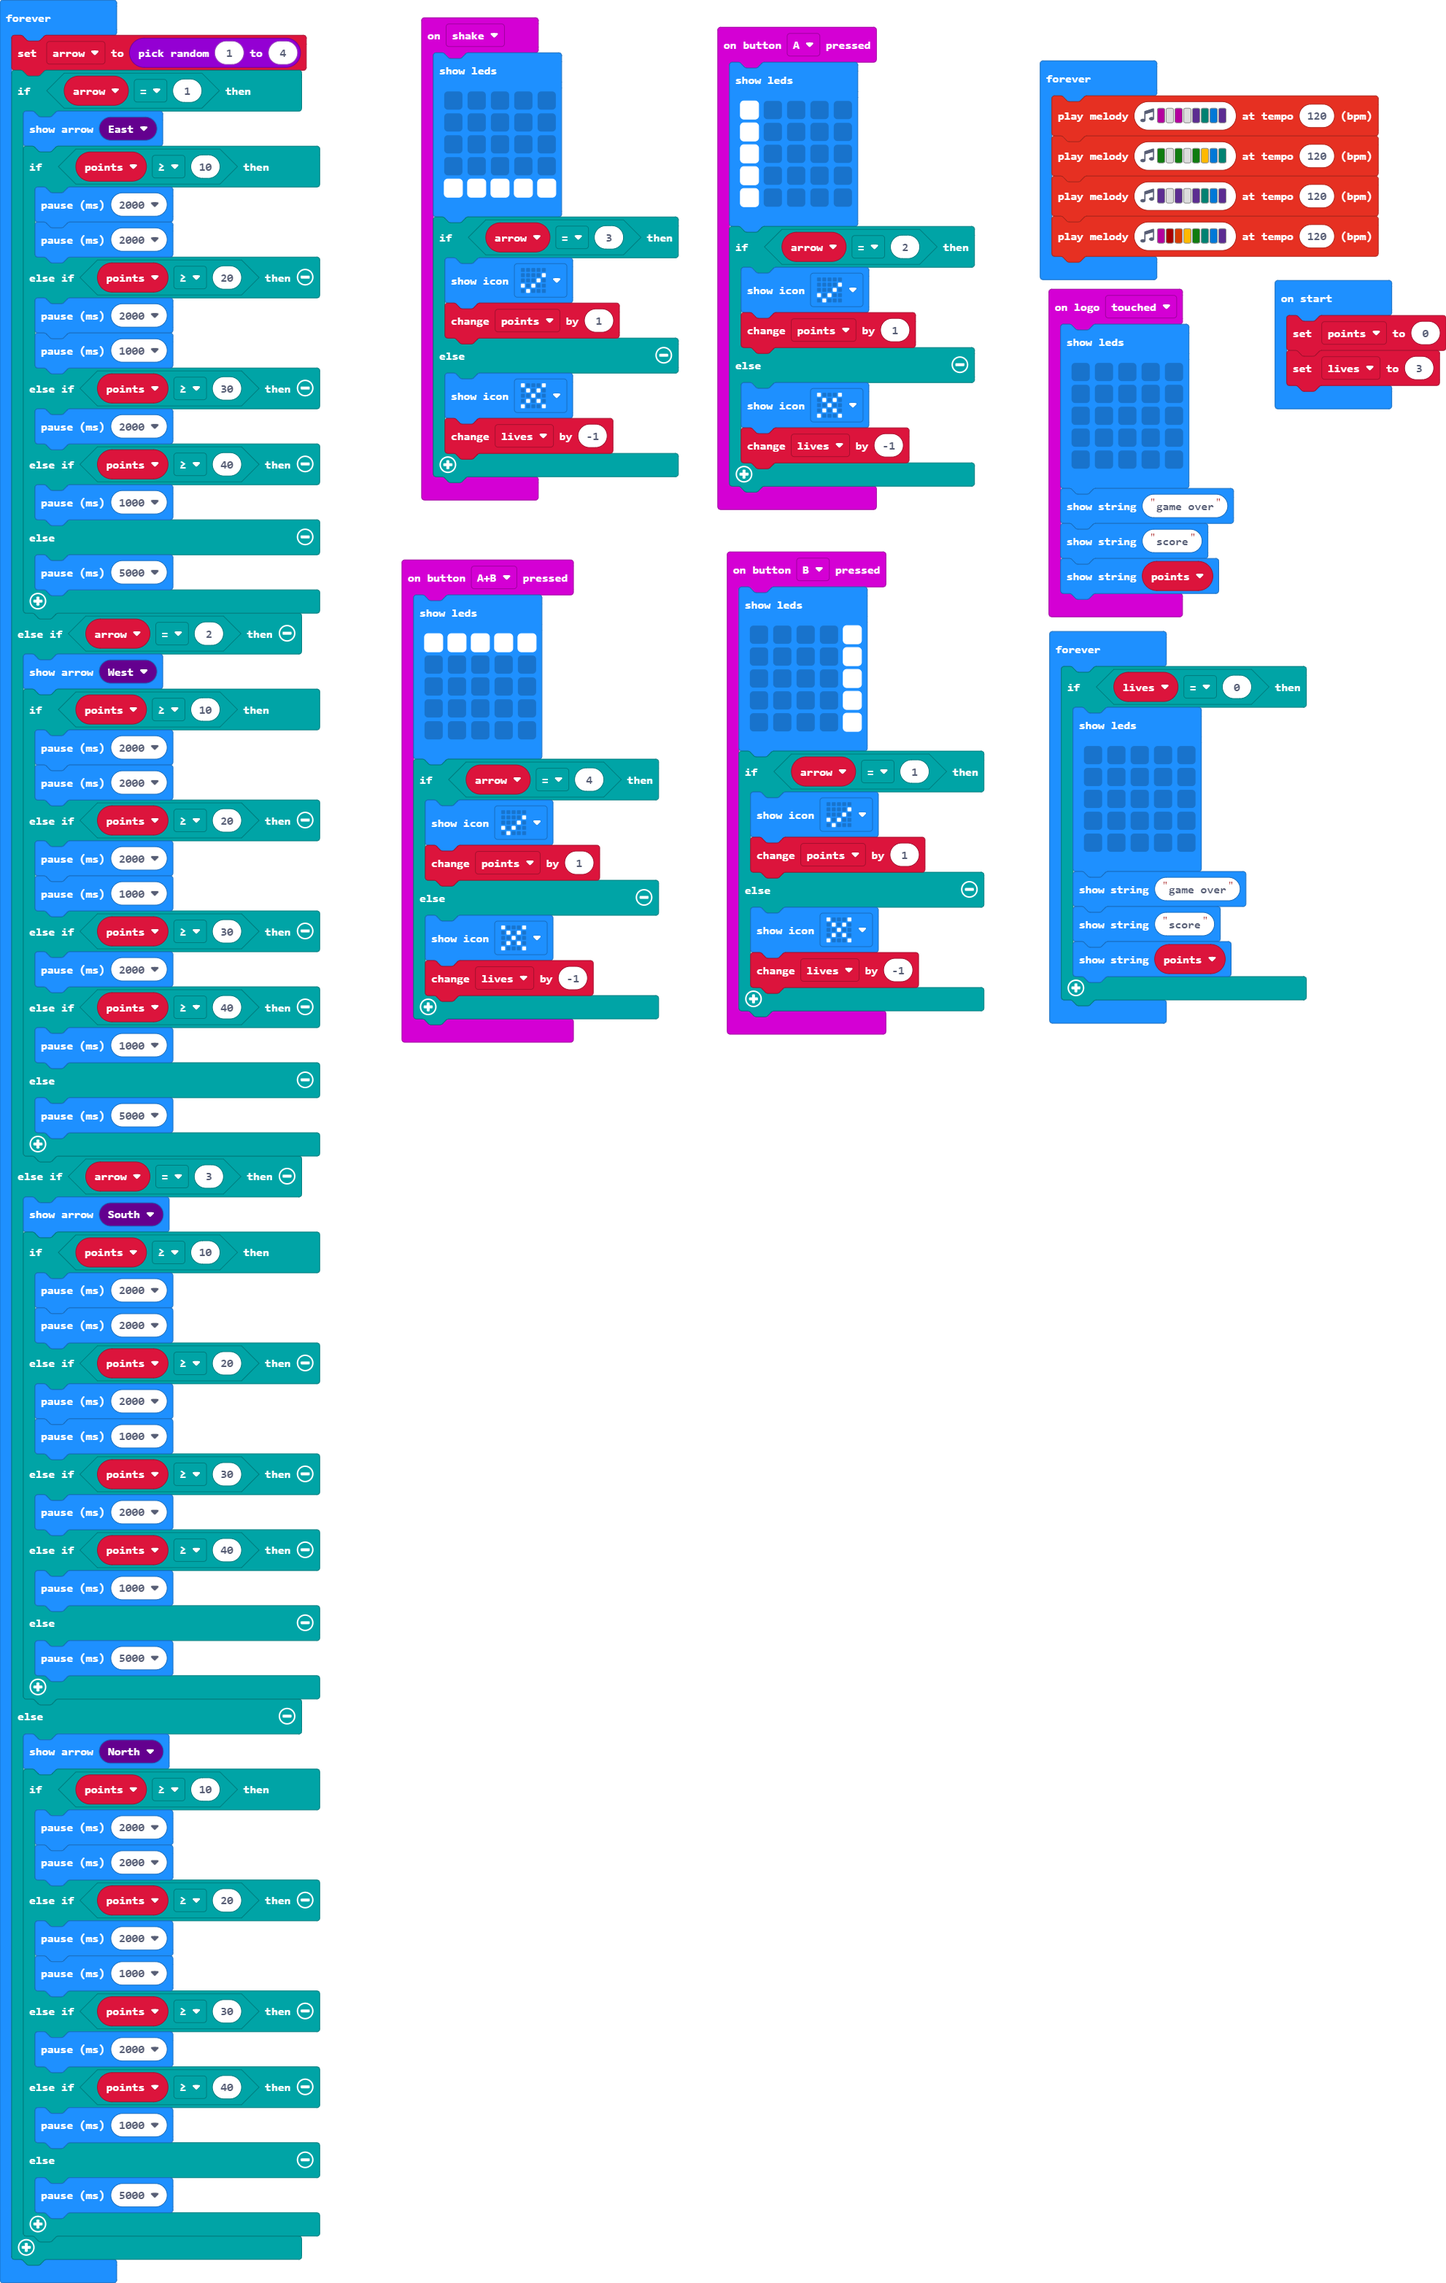
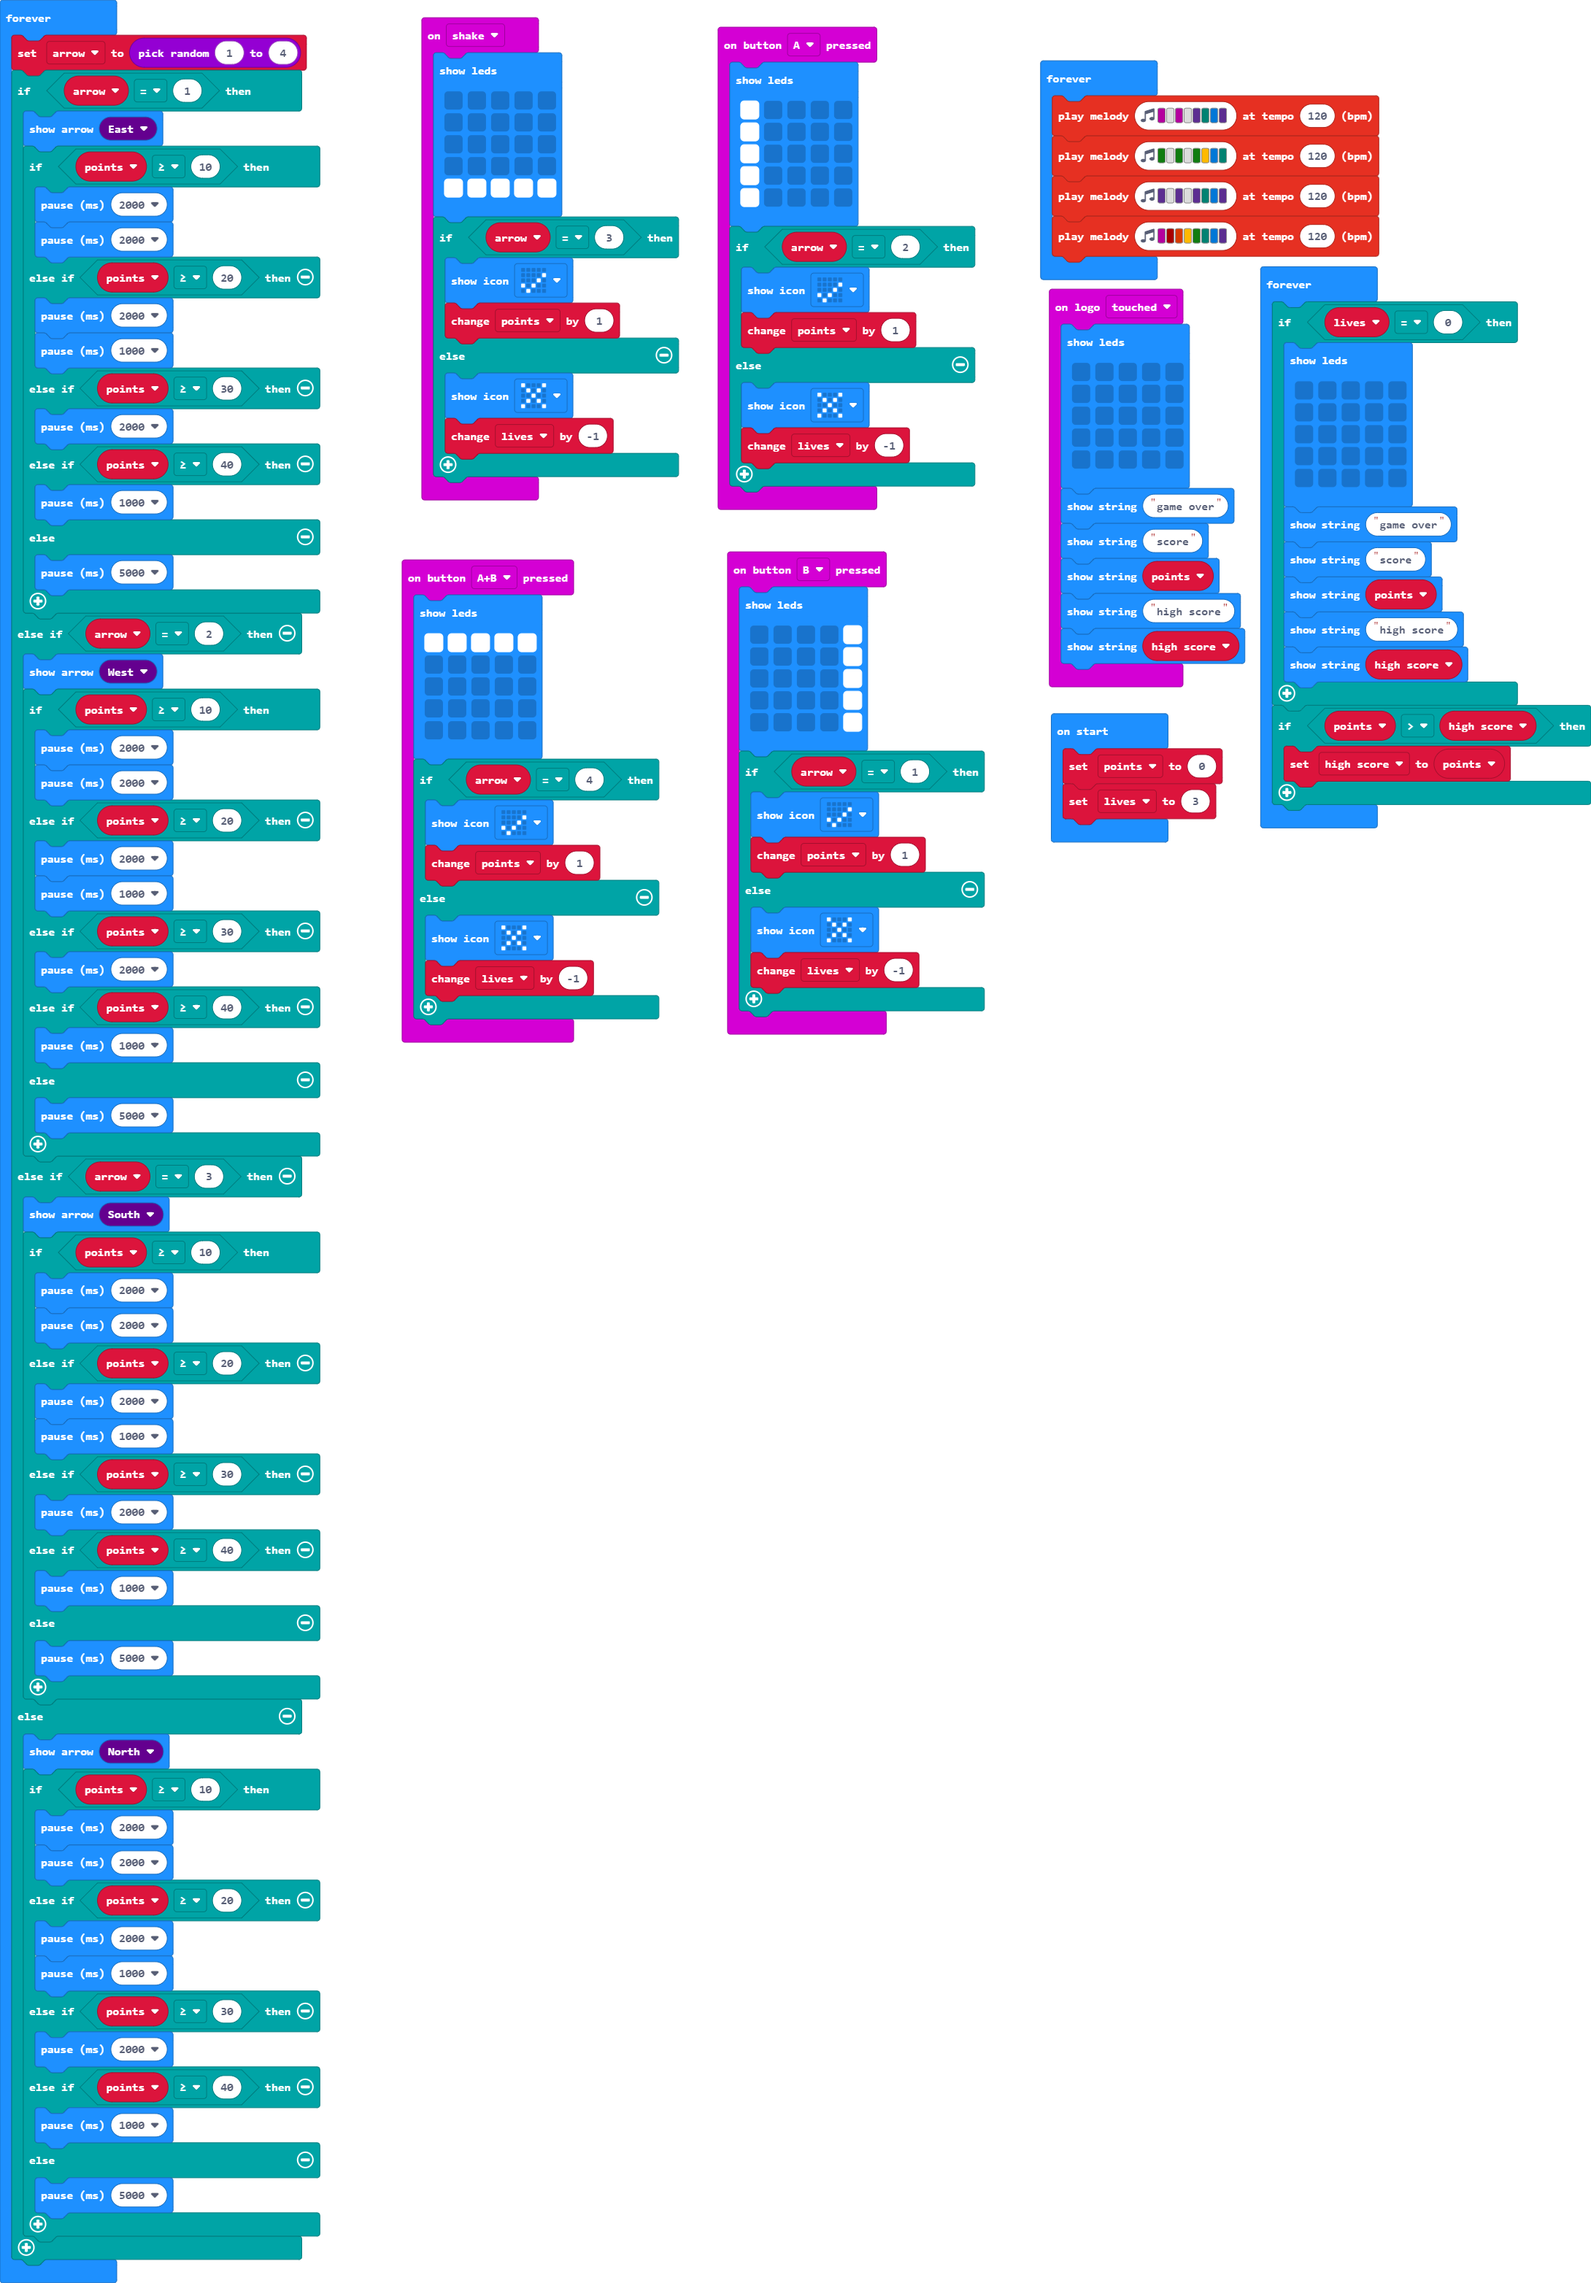
Update main.blocks, main.ts

Changed region(s): [[0.0, 0.0, 1.0, 1.0]]

diff --git a/main.ts b/main.ts
@@ -73,7 +73,10 @@ input.onLogoEvent(TouchButtonEvent.Touched, function () {
     basic.showString("game over")
     basic.showString("score")
     basic.showString("" + (points))
+    basic.showString("high score")
+    basic.showString("" + (high_score))
 })
+let high_score = 0
 let arrow = 0
 let points = 0
 points = 0
@@ -160,5 +163,10 @@ basic.forever(function () {
         basic.showString("game over")
         basic.showString("score")
         basic.showString("" + (points))
+        basic.showString("high score")
+        basic.showString("" + (high_score))
+    }
+    if (points > high_score) {
+        high_score = points
     }
 })
